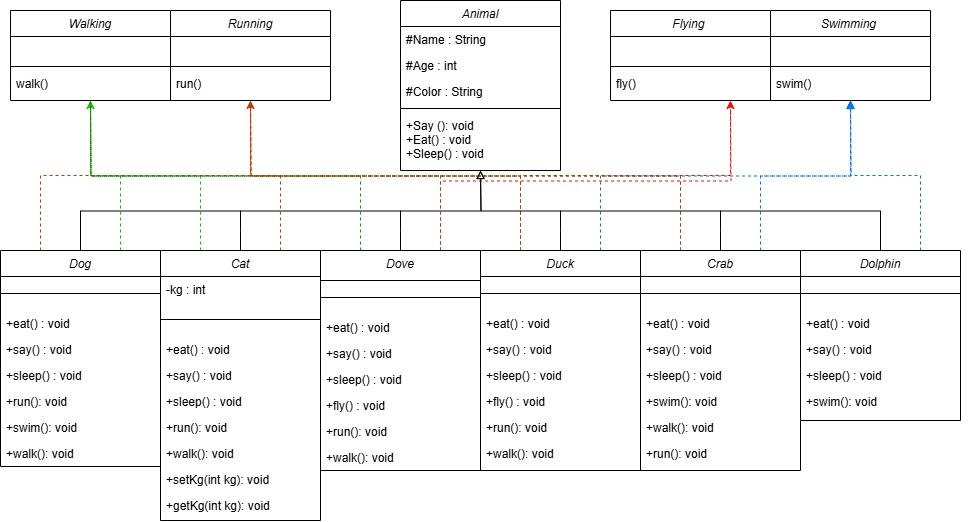
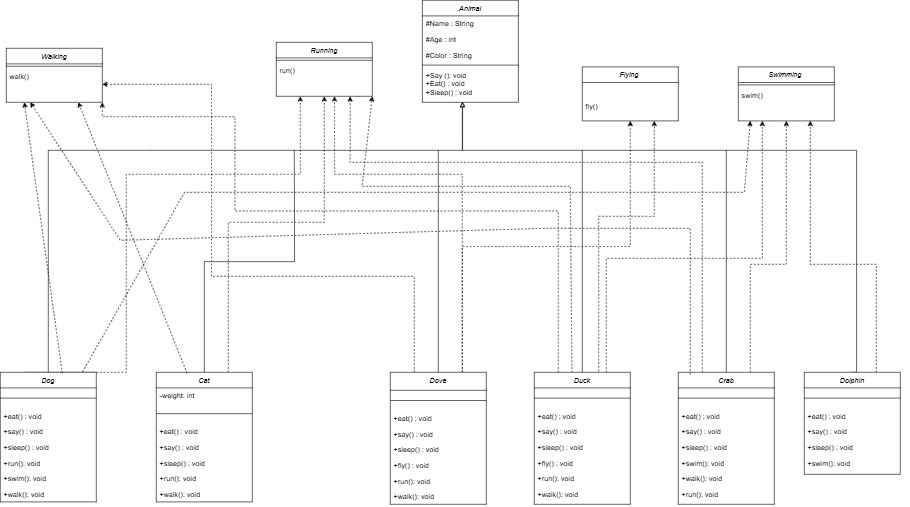
[JT-02] OOP am adaugat diagrama noua facuta dupa UML Class Diagram Tutorial, am sters comentariile de prisos, am mutat conditiile tascurilor in mapa documentation

diff --git a/jt02-OOP/src/main/java/com/java/margarita/jt02/model/Cat.java b/jt02-OOP/src/main/java/com/java/margarita/jt02/model/Cat.java
@@ -4,7 +4,7 @@ import com.java.margarita.jt02.interfaces.Running;
 import com.java.margarita.jt02.interfaces.Walking;
 
 public class Cat extends Animal implements Walking, Running {
-    private int kg;
+    private int weight;
 
     public Cat() {
     }
@@ -20,10 +20,10 @@ public class Cat extends Animal implements Walking, Running {
         this.color = color;
     }
 
-    public Cat(String name, int age, int kg) {
+    public Cat(String name, int age, int weight) {
         this.name = name;
         this.age = age;
-        this.setKg(kg);
+        this.setWeight(weight);
     }
 
     @Override
@@ -51,11 +51,11 @@ public class Cat extends Animal implements Walking, Running {
         System.out.println("Cat is walking");
     }
 
-    public void setKg(int kg) {
-        this.kg = kg;
+    public void setWeight(int weight) {
+        this.weight = weight;
     }
 
-    public int getKg() {
-        return kg;
+    public int getWeight() {
+        return weight;
     }
 }

diff --git a/jt02-OOP/src/main/java/com/java/margarita/jt02/Menagerie.java b/jt02-OOP/src/main/java/com/java/margarita/jt02/Menagerie.java
@@ -11,8 +11,8 @@ public class Menagerie {
         Cat kity = new Cat();
         Cat busea = new Cat("Busea", 2);
         Cat bob = new Cat("Bob", 1, "orange");
-        bob.setKg(5);
-        kity.setKg(2);
+        bob.setWeight(5);
+        kity.setWeight(2);
 
         Dog lucky = new Dog("Lucky", 2, "white");
         Crab crab = new Crab();

diff --git a/jt02-OOP/src/main/java/com/java/margarita/jt02/model/Duck.java b/jt02-OOP/src/main/java/com/java/margarita/jt02/model/Duck.java
@@ -27,7 +27,7 @@ public class Duck extends Animal implements Walking, Running, Swimming, Flying {
 
     @Override
     public void eat() {
-        System.out.println("Duck like seeds and grass");
+        System.out.println("Duck like eat seeds and grass");
     }
 
     @Override

diff --git a/jt02-OOP/src/main/java/com/java/margarita/jt02/model/Crab.java b/jt02-OOP/src/main/java/com/java/margarita/jt02/model/Crab.java
@@ -26,7 +26,7 @@ public class Crab extends Animal implements Walking, Running, Swimming {
 
     @Override
     public void eat() {
-        System.out.println("Crab like INVERTEBRATES");
+        System.out.println("Crab like eat INVERTEBRATES");
     }
 
     @Override

diff --git a/jt02-OOP/src/main/java/com/java/margarita/jt02/model/Dove.java b/jt02-OOP/src/main/java/com/java/margarita/jt02/model/Dove.java
@@ -27,7 +27,7 @@ public class Dove extends Animal implements Walking, Running, Flying {
 
     @Override
     public void eat() {
-        System.out.println("Dove like seeds");
+        System.out.println("Dove like eat seeds");
     }
 
     @Override

diff --git a/jt02-OOP/src/main/java/com/java/margarita/jt02/model/Dog.java b/jt02-OOP/src/main/java/com/java/margarita/jt02/model/Dog.java
@@ -26,7 +26,7 @@ public class Dog extends Animal implements Walking, Running, Swimming {
 
     @Override
     public void eat() {
-        System.out.println("Dog like bones");
+        System.out.println("Dog like eat bones");
     }
 
     @Override

diff --git a/jt02-OOP/src/main/java/com/java/margarita/jt02/model/Dolphin.java b/jt02-OOP/src/main/java/com/java/margarita/jt02/model/Dolphin.java
@@ -24,7 +24,7 @@ public class Dolphin extends Animal implements Swimming {
 
     @Override
     public void eat() {
-        System.out.println("Dolphin like fish");
+        System.out.println("Dolphin like eat fish");
     }
 
     @Override
